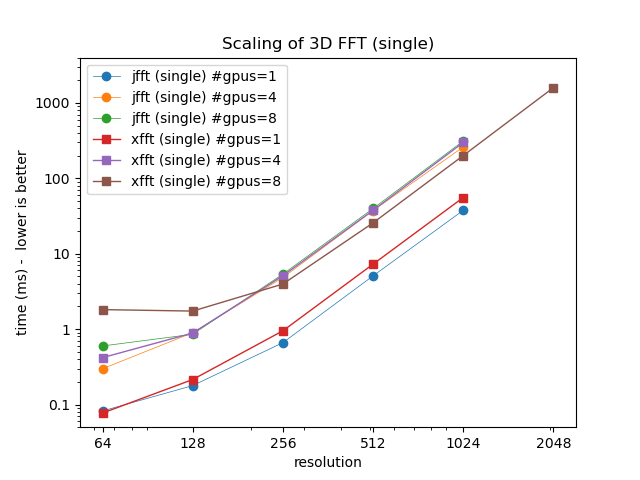
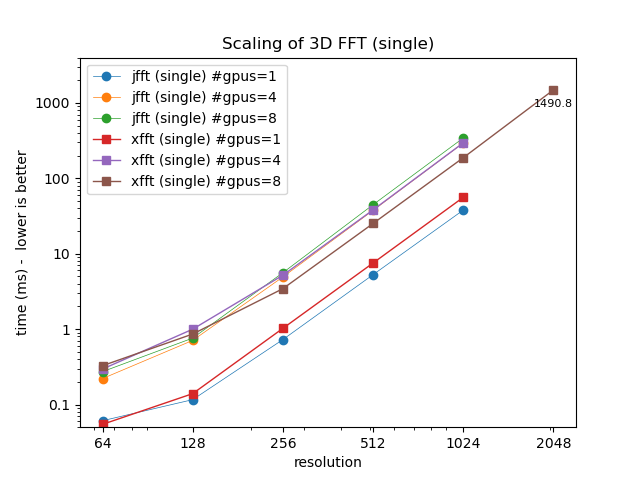
updating scripts (exclusive, more cpu/task) and scaling plots

Changed region(s): [[0.1562, 0.1875, 0.9062, 0.8125], [0.1562, 0.4062, 0.7188, 0.9062]]

diff --git a/xfft.py b/xfft.py
@@ -7,7 +7,6 @@ from jax.experimental import mesh_utils
 from jax.experimental.custom_partitioning import custom_partitioning
 from jax.sharding import Mesh, PartitionSpec, NamedSharding
 from typing import Callable
-# from xfft_lib import xfft, Dist, Dir
 
 # Philip Mocz (2025)
 # Flatiron Institute
@@ -15,6 +14,10 @@ from typing import Callable
 # Distributed 3D fft using JAX
 # TODO: turn this into a proper mini-library
 # TODO: additional optimizations
+# see also:
+# https://gist.github.com/Findus23/eb5ecb9f65ccf13152cda7c7e521cbdd
+# https://github.com/NVIDIA/CUDALibrarySamples/tree/master/cuFFTMp/JAX_FFT
+# https://docs.jax.dev/en/latest/jax.experimental.custom_partitioning.html
 
 # 1. Array is initially sharded along Y
 # 2. Given a local (X, Y // nGPUs, Z) array, compute local FFTs along Z
@@ -38,7 +41,7 @@ def fft_partitioner(
         return NamedSharding(sharding.mesh, partition_spec)
 
     def partition(mesh, arg_shapes, result_shape):
-        result_shardings = jax.tree.map(lambda x: x.sharding, result_shape)
+        # result_shardings = jax.tree.map(lambda x: x.sharding, result_shape)
         arg_shardings = jax.tree.map(lambda x: x.sharding, arg_shapes)
         return (
             mesh,
@@ -75,7 +78,6 @@ def _ifft_Z(x):
     return jfft.ifft(x, axis=2)
 
 
-# Use einsum-like notation for sharding rules
 # fft_XY/ifft_XY: operate on 2D slices (axes [0,1])
 # fft_Z/ifft_Z: operate on 1D slices (axis 2)
 fft_XY = fft_partitioner(_fft_XY, PartitionSpec(None, None, "gpus"))
@@ -147,15 +149,6 @@ def main():
             out_shardings=sharding,
         )
 
-    # Alt. option:
-
-    # dist = Dist.create("X")  # "X" or "Y""
-
-    # with mesh:
-    #    xfft_jit = jax.jit(
-    #        xfft, in_shardings=sharding, out_shardings=sharding, static_argnums=[1, 2]
-    #    )
-
     # Create a test array
     L = 2.0 * jnp.pi
     xlin = jnp.linspace(0, L, num=N + 1)
@@ -166,7 +159,7 @@ def main():
     xx, yy, zz = xmeshgrid_jit(xlin)
     print_on_master(f"  success!")
 
-    # Apply sharding to meshgrid arrays
+    # Apply sharding to meshgrid arrays (not necessary, should be inherited)
     # xx = jax.lax.with_sharding_constraint(xx, sharding)
     # yy = jax.lax.with_sharding_constraint(yy, sharding)
     # zz = jax.lax.with_sharding_constraint(zz, sharding)
@@ -179,14 +172,12 @@ def main():
     # warm-up
     print_on_master(f"warming up ...")
     vx_hat = xfft3d_jit(vx)
-    # vx_hat = xfft_jit(vx, dist, Dir.FWD)
     vx_hat.block_until_ready()
     print_on_master(f"  success!")
     # time it
     start_time = time.time()
     for i in range(N_trials):
         vx_hat = xfft3d_jit(vx)
-        # vx_hat = xfft_jit(vx, dist, Dir.FWD)
         vx_hat.block_until_ready()
     end_time = time.time()
 

diff --git a/analyze.py b/analyze.py
@@ -43,6 +43,16 @@ def main():
                     linewidth=0.5 if j == 0 else 1,
                     label=f"{method} ({precision}) #gpus={n_dev}",
                 )
+                if not np.isnan(timings_slice[-1]):
+                    plt.text(
+                        resolutions[-1],
+                        timings_slice[-1] * 0.55,
+                        f"{timings_slice[-1]:.1f}",
+                        fontsize=8,
+                        ha="center",
+                        va="bottom",
+                    )
+
         plt.xscale("log")
         plt.yscale("log")
         plt.xticks(resolutions, labels=[str(r) for r in resolutions])
